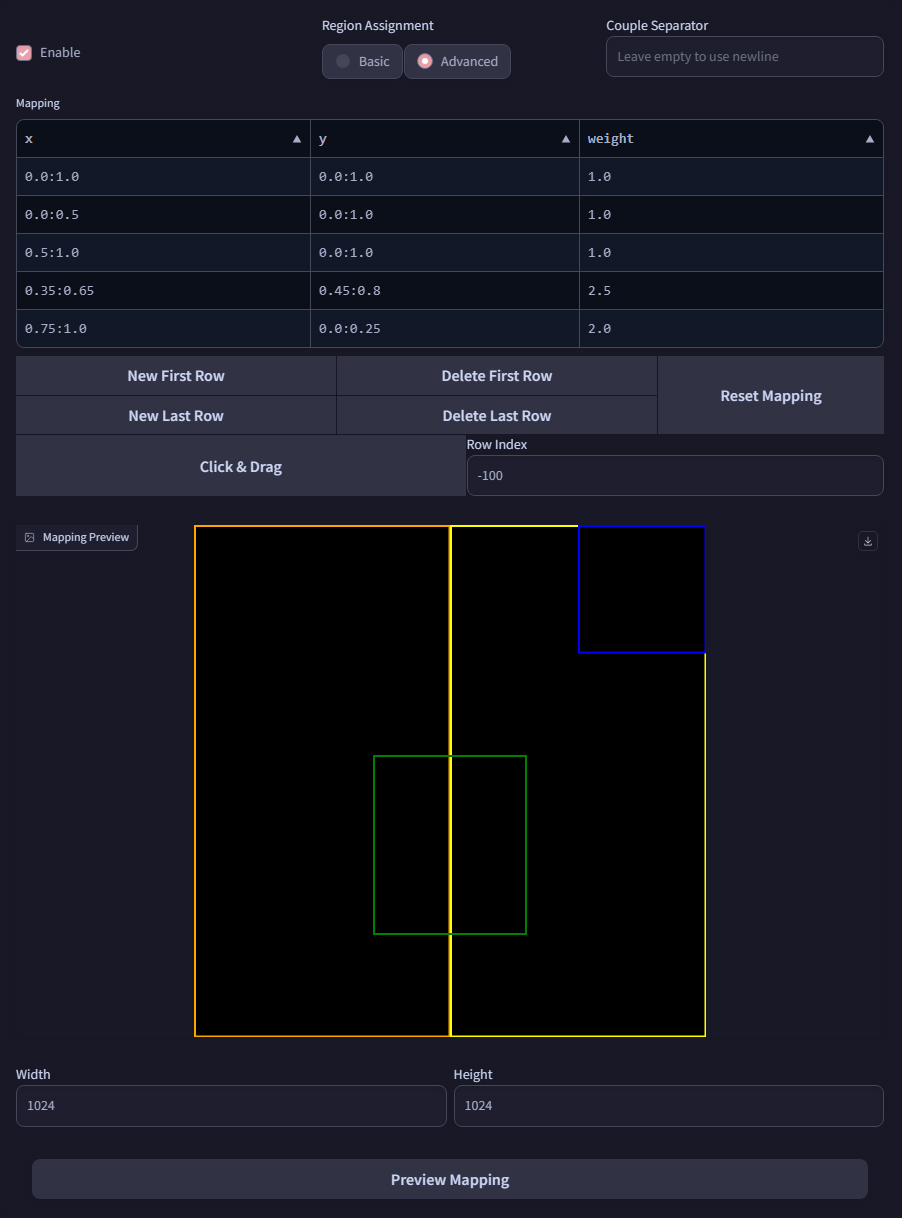
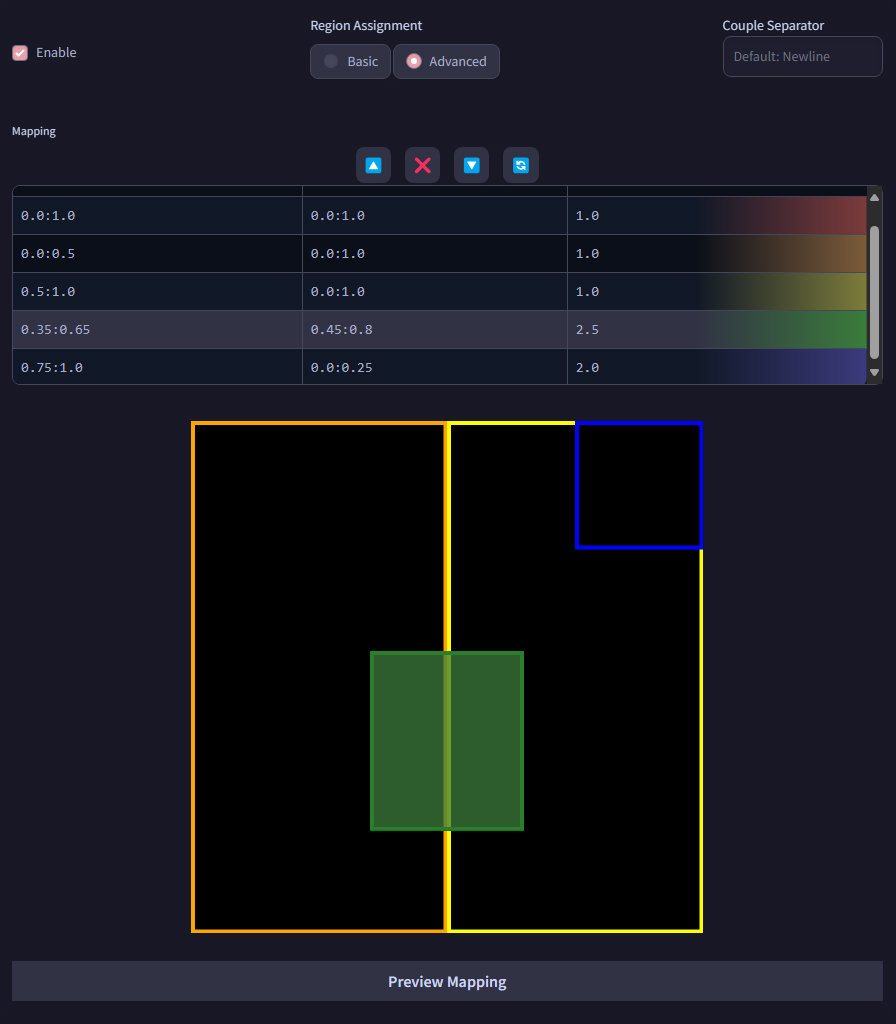
update README

diff --git a/scripts/couple_ui.py b/scripts/couple_ui.py
@@ -43,7 +43,7 @@ def parse_mapping(data: list) -> list:
     return mapping
 
 
-def validata_mapping(data: list) -> bool:
+def validate_mapping(data: list) -> bool:
     try:
         for [X, Y, W] in data:
             if not X.strip():
@@ -86,7 +86,7 @@ def validata_mapping(data: list) -> bool:
 def visualize_mapping(p_WIDTH: int, p_HEIGHT: int, data: list) -> Image:
     matt = Image.new("RGB", (p_WIDTH, p_HEIGHT), "black")
 
-    if not (validata_mapping(data)):
+    if not (validate_mapping(data)):
         return matt
 
     lnw = int(max(min(p_WIDTH, p_HEIGHT) / 128, 2.0))
@@ -226,7 +226,7 @@ def couple_UI(script, is_img2img: bool, title: str):
                 ref_btn = ToolButton(
                     value="\U0001F504",
                     elem_id="fc_ref_btn",
-                    tooltip="Refresh Mapping",
+                    tooltip="Reset Mapping",
                 )
 
             mapping = gr.Dataframe(

diff --git a/scripts/forge_couple.py b/scripts/forge_couple.py
@@ -7,12 +7,12 @@ from scripts.couple_mapping import (
     advanced_mapping,
     mask_mapping,
 )
-from scripts.couple_ui import couple_UI, validata_mapping, parse_mapping, hook_component
+from scripts.couple_ui import couple_UI, validate_mapping, parse_mapping, hook_component
 
 from scripts.attention_couple import AttentionCouple
 forgeAttentionCouple = AttentionCouple()
 
-VERSION = "1.3.7"
+VERSION = "1.4.0"
 
 
 class ForgeCouple(scripts.Script):
@@ -86,7 +86,7 @@ class ForgeCouple(scripts.Script):
             self.couples = None
             return
 
-        if (mode == "Advanced") and not validata_mapping(mapping):
+        if (mode == "Advanced") and not validate_mapping(mapping):
             self.couples = None
             return
 

diff --git a/README.md b/README.md
@@ -133,30 +133,28 @@ LoRA with multiple subjects works better in my experience.
 Were these automated equally-sized tiles not sufficient for your needs? Now you can manually specify each regions! The mapping logic is the same: one line corresponds to one entry.
 
 - **Note:**
-    - You **must** have values in the entire mask. Simplest way would be adding a global entry by clicking `New First Row`
-    - Entries with empty **x** column are skipped
+    - You **must** have values in the entire mask
+        - Simplest way would be adding a global entry
+    - Rows with empty **x** column are skipped
 
-- **Regions:**
-    - Each region contains a (**x**, **y**) range and a **weight**
-    - The **x** and **y** are in the syntax of `from : to`
-    - **x** is from left to right; **y** is from top to bottom
-    - The values should be `0.0 ~ 1.0`, representing the **percentage** of the full width/height
+- **Entry:**
+    - Each row contains a range for **x** axis, a range for **y** axis, and a **weight**
+    - The **x** and **y** columns are in the syntax of `from:to`
+    - The range should be within `0.0 ~ 1.0`, representing the **percentage** of the full width/height
         - **eg.** `0.0:1.0` would span across the entire axis
+    - **x** axis is from left to right; **y** axis is from top to bottom
 
-- **Click & Drag:**
-    Tired of ~~painstakingly~~ specifying the ranges? Just use the mouse to draw the regions!
-    - Click the button to get started *(cursor will become a **crosshair** when hovering the preview image)*
-    - Make a selection on top of the preview image with the mouse
+- **Control:**
+    - Click on a row to select it; click on it again to deselect it
+    - Click the 🔼 button to add a new row above the selected row
+    - Click the ❌ button to delete the selected row
+    - Click the 🔽 button to add a new row below the selected row
+    - Click the 🔄 button to reset to the default mapping
 
-- **Selected Row:**
-    - The index of the entry to be edited by `Click & Drag`; or to be deleted
-    - Use an index out of range to append a new entry instead
-    - The index follows the Python logic *(**ie.** Start from `0`; negative counts from the last entry)*
-    - Clicking a row will update the index
-
-- **Preview:**
-    - Click the **Preview Mapping** button to see each region
-    - Colors are mapped in the sequence of a rainbow; corresponding row is also colored
+- **Draggable Region:**
+    - When a row is selected, its corresponding region would be highlighted
+    - Simply drag the box around to reposition the region
+    - Use the **bottom right** corner to resize the region
 
 <p align="center">
 <img src="example/10.jpg" height=384>

diff --git a/CHANGELOG.md b/CHANGELOG.md
@@ -1,3 +1,6 @@
+### v1.4.0 - 2024 Apr.16
+- Implement **Draggable Regions**
+
 ### v1.3.7 - 2024 Apr.14
 - **Global Effect Weight** Slider by. <ins>ramyma</ins>
 - **Mask API** by. <ins>ramyma</ins>
